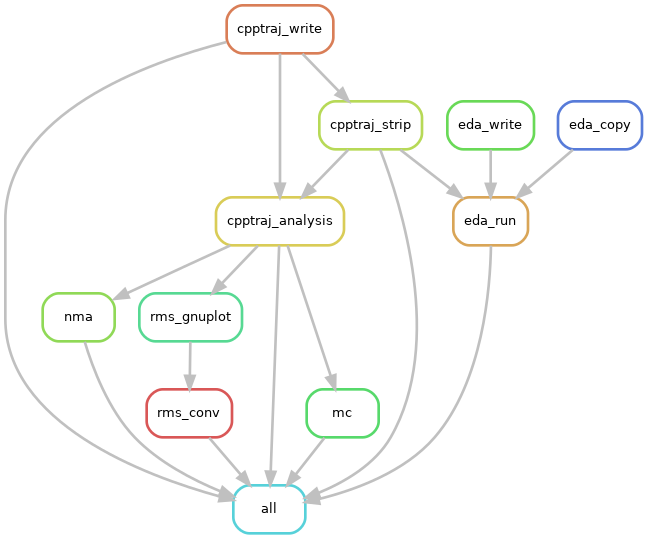
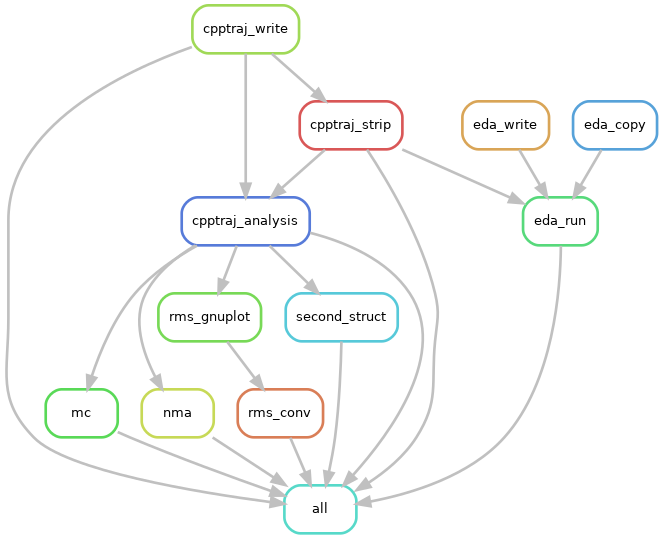
Add secondary structure

diff --git a/scripts/write-cpptraj.py b/scripts/write-cpptraj.py
@@ -2,7 +2,7 @@ import sys
 
 # python write-cpptraj.py alloc replicate full_path tag file_ext start_range end_range
 # mask file_sep
-# Ex: python write-cpptraj.py gac.cpu r1 ../test thing mdcrd 22 30 1-476 -
+# Ex: python write-cpptraj.py gac.cpu r1 ../test thing mdcrd 22 30 1-476 - 450
 # script_name = sys.argv[0]
 alloc = sys.argv[1]
 replicate = sys.argv[2]
@@ -15,6 +15,7 @@ mask = sys.argv[8]
 fs = sys.argv[9]
 work_dir = sys.argv[10]
 system = sys.argv[11]
+n_aa = int(sys.argv[12])
 
 # Remove the trailing slash on a path, if present
 full_path = full_path.rstrip('/')
@@ -71,6 +72,37 @@ def write_strip_bash(outfile, queue, rep, f_path, cpp_strip, tag):
 
 def write_strip_traj(outfile, file_sep, f_path, tag, f_ext, f_start, f_end,
                      cwd, sys, rep):
+    """Creates the cpptraj script for writing an ASCII trajectory for EDA and a
+    stripped NetCDF trajectory for analysis.
+
+    Parameters
+    ----------
+    outfile : str
+        The name of the output cpptraj strip file.
+    file_sep: str
+        Determines the separator to use for the file name.
+    f_path : str
+        The full path to the trajectory files (parm_path).
+    tag : str
+        Specifies the inital title information for the output files.
+    f_ext : str
+        Current file extension used for trajectory files (ex. mdcrd or nc).
+    f_start : int
+        The number associated with the first trajectory file to read in.
+    f_end : int
+        The number associated with the final trajectory file to read in.
+    cwd : str
+        The path to the current working directory for the overall analysis.
+    sys : str
+        The system to make the analysis for.
+    rep : str
+        The replicate of a given `sys`.
+
+    Returns
+    -------
+    outfile : txt
+        The input file for cpptraj stripping.
+    """
     f = open(outfile, "w+")
     # start, end+1 for correct range
     for i in range(f_start, f_end + 1):
@@ -124,10 +156,32 @@ def write_analy_bash(outfile, queue, rep, cpp_analy, tag):
     f.close()
 
 
-def write_analy_traj(outfile, fs, f_path, tag, f_start, f_end, res_mask):
+def write_analy_traj(outfile, fs, f_path, tag, f_start, f_end, num_aa, res_mask):
     """Creates the input file used for analysis with cpptraj.
 
+    Parameters
+    ----------
+    outfile : str
+        The name of the output cpptraj strip file.
+    fs: str
+        Determines the separator to use for the file name.
+    f_path : str
+        The full path to the trajectory files (parm_path).
+    tag : str
+        Specifies the inital title information for the output files.
+    f_start : int
+        The number associated with the first trajectory file to read in.
+    f_end : int
+        The number associated with the final trajectory file to read in.
+    num_aa : int
+        Number of amino acids in the system for secondary structure analysis.
+    res_mask : str
+        The residue mask for specific analyses.
 
+    Returns
+    -------
+    outfile : txt
+        The input file for cpptraj analysis.
     """
     f = open(outfile, "w+")
     f.write("# Read in the crystal (pre-minimization) structure\n")
@@ -156,6 +210,7 @@ def write_analy_traj(outfile, fs, f_path, tag, f_start, f_end, res_mask):
     f.write(f"rmsd :{res_mask} reference perres perresavg range {res_mask} \\\n")
     f.write(f" perresout {tag}{fs}rmsd{fs}byres.dat\n\n")
     f.write(f"atomicfluct :{res_mask} out {tag}{fs}rmsf{fs}byres.dat byres\n")
+    f.write(f"secstruct :1-{num_aa} out {tag}{fs}secstruct.gnu\n")
     f.write(f"#distance :AAA@PA :BBB@O3' out {tag}{fs}dist{fs}PO{fs}WT.dat\n\n")
     f.close()
 
@@ -167,4 +222,5 @@ write_strip_traj(out_strip, fs, full_path, sys_tag, file_ext, start_range,
 
 # Write the analysis files
 write_analy_bash(sh_analy, alloc, replicate, out_analy, sys_tag)
-write_analy_traj(out_analy, fs, full_path, sys_tag, start_range, end_range, mask)
+write_analy_traj(out_analy, fs, full_path, sys_tag, start_range, end_range,
+                 n_aa, mask)

diff --git a/scripts/2SA-plot-fix.py b/scripts/2SA-plot-fix.py
@@ -1,0 +1,63 @@
+#!/usr/bin/env python3
+
+import sys
+
+# gnu_in:   the gnuplot file saved by cpptraj
+# gnu_out:  the filename to save the fixed gnuplot file as
+# pic:      name of saved gnuplot figure
+# prot:     number of protein residues
+# time:     length of simulation in ns
+# divider:  dividend for frames v time (typically 100 Lang, 500 Berend)
+
+# Script is sys.argv[0]
+gnu_read = sys.argv[1]
+gnu_out = sys.argv[2]
+pic = sys.argv[3]
+prot = sys.argv[4]
+time = sys.argv[5]
+divider = sys.argv[6]
+
+# Read the original gnuplot file line-by-line
+gnu_in = open(gnu_read, 'r')
+lines = gnu_in.readlines()
+gnu_in.close()
+
+# Change the final line from `pause -1` to `set output`
+lines[-1] = "set output"
+
+# Write out a new file with new header info
+with open(gnu_out, 'w+') as f:
+    f.write("set terminal pngcairo size 2560,1920 font \"Arial,48\";\n")
+    f.write("set size 0.96,1\n")
+    f.write("set encoding iso_8859_1\n")
+    f.write("set pm3d map corners2color c1\n")
+    f.write("set xtics nomirror out\n")
+    f.write("#set ytics nomirror\n")
+    # Set the explicit y-tics for your system if they're special
+#    f.write("set ytics (\"100\" 0, \"150\" 50, \"200\" 100, \"250\" 150, \"300\" 200, \\\n")
+#    f.write("\"350\" 250, \"400\" 300, \"BR\" 325, \"\" 335, \"1000\" 350, \"1050\" 400) \\\n")
+#    f.write("border nomirror out\n")
+    f.write("set cbrange [  -0.500:   7.500]\n")
+    f.write("set cbtics    0.000,7.000,1.0\n")
+    f.write("set palette maxcolors 8\n")
+    # Use the Paul Tol muted color scheme https://personal.sron.nl/~pault/
+    f.write("set palette defined (0 \"#DDDDDD\",1 \"#AA4499\",2 \"#882255\", 3 \"#CC6677\",\\\n")
+    f.write("4 \"#DDCC77\",5 \"#999933\", 6 \"#117733\",7 \"#44AA99\")\n")
+    f.write("set cbtics(\"None\"    0.000,\"Para\"    1.000,\"Anti\"    2.000,\"3-10\"    \\\n")
+    f.write("3.000,\"Alpha\"    4.000,\"Pi\"    5.000,\"Turn\"    6.000,\"Bend\"    7.000)\n")
+    f.write("set xlabel \"Time (ns)\"\n")
+    f.write("set ylabel \"Residue\"\n")
+    f.write(f"set yrange [   0.000: {prot}]\n")
+    f.write(f"set xrange [   0.000: {time}]\n")
+    f.write(f'set output "{pic}"\n')
+    f.write(f"splot \"-\" u ($1/{divider}):2:3 with pm3d notitle\n")
+    # Rewrite the rest of the file
+    # Skipping the first 13 lines with the original header info
+    i = 0
+    for line in lines:
+        if i >= 13:
+            f.write(line)
+            i +=1
+        else:
+            i+=1
+

diff --git a/README.md b/README.md
@@ -277,7 +277,7 @@ the overall `snakemake` job through the queuing system.
 ```bash
 #!/bin/bash
 #PBS -q my_cpu_alloc
-#PBS -l nodes=1:ppn=1,mem=6GB
+#PBS -l nodes=1:ppn=2,mem=8GB
 #PBS -j oe
 #PBS -r n
 #PBS -o err.error
@@ -299,7 +299,7 @@ conda activate snakemake
 ## Output wait time is in seconds
 ## Wait 2 hours for new files: 7200
 ## Wait 24 hours for new files: 86400
-snakemake --cores 1 --output-wait 7200
+snakemake --cores 2 --output-wait 7200
 ```
 
 ## Citations
